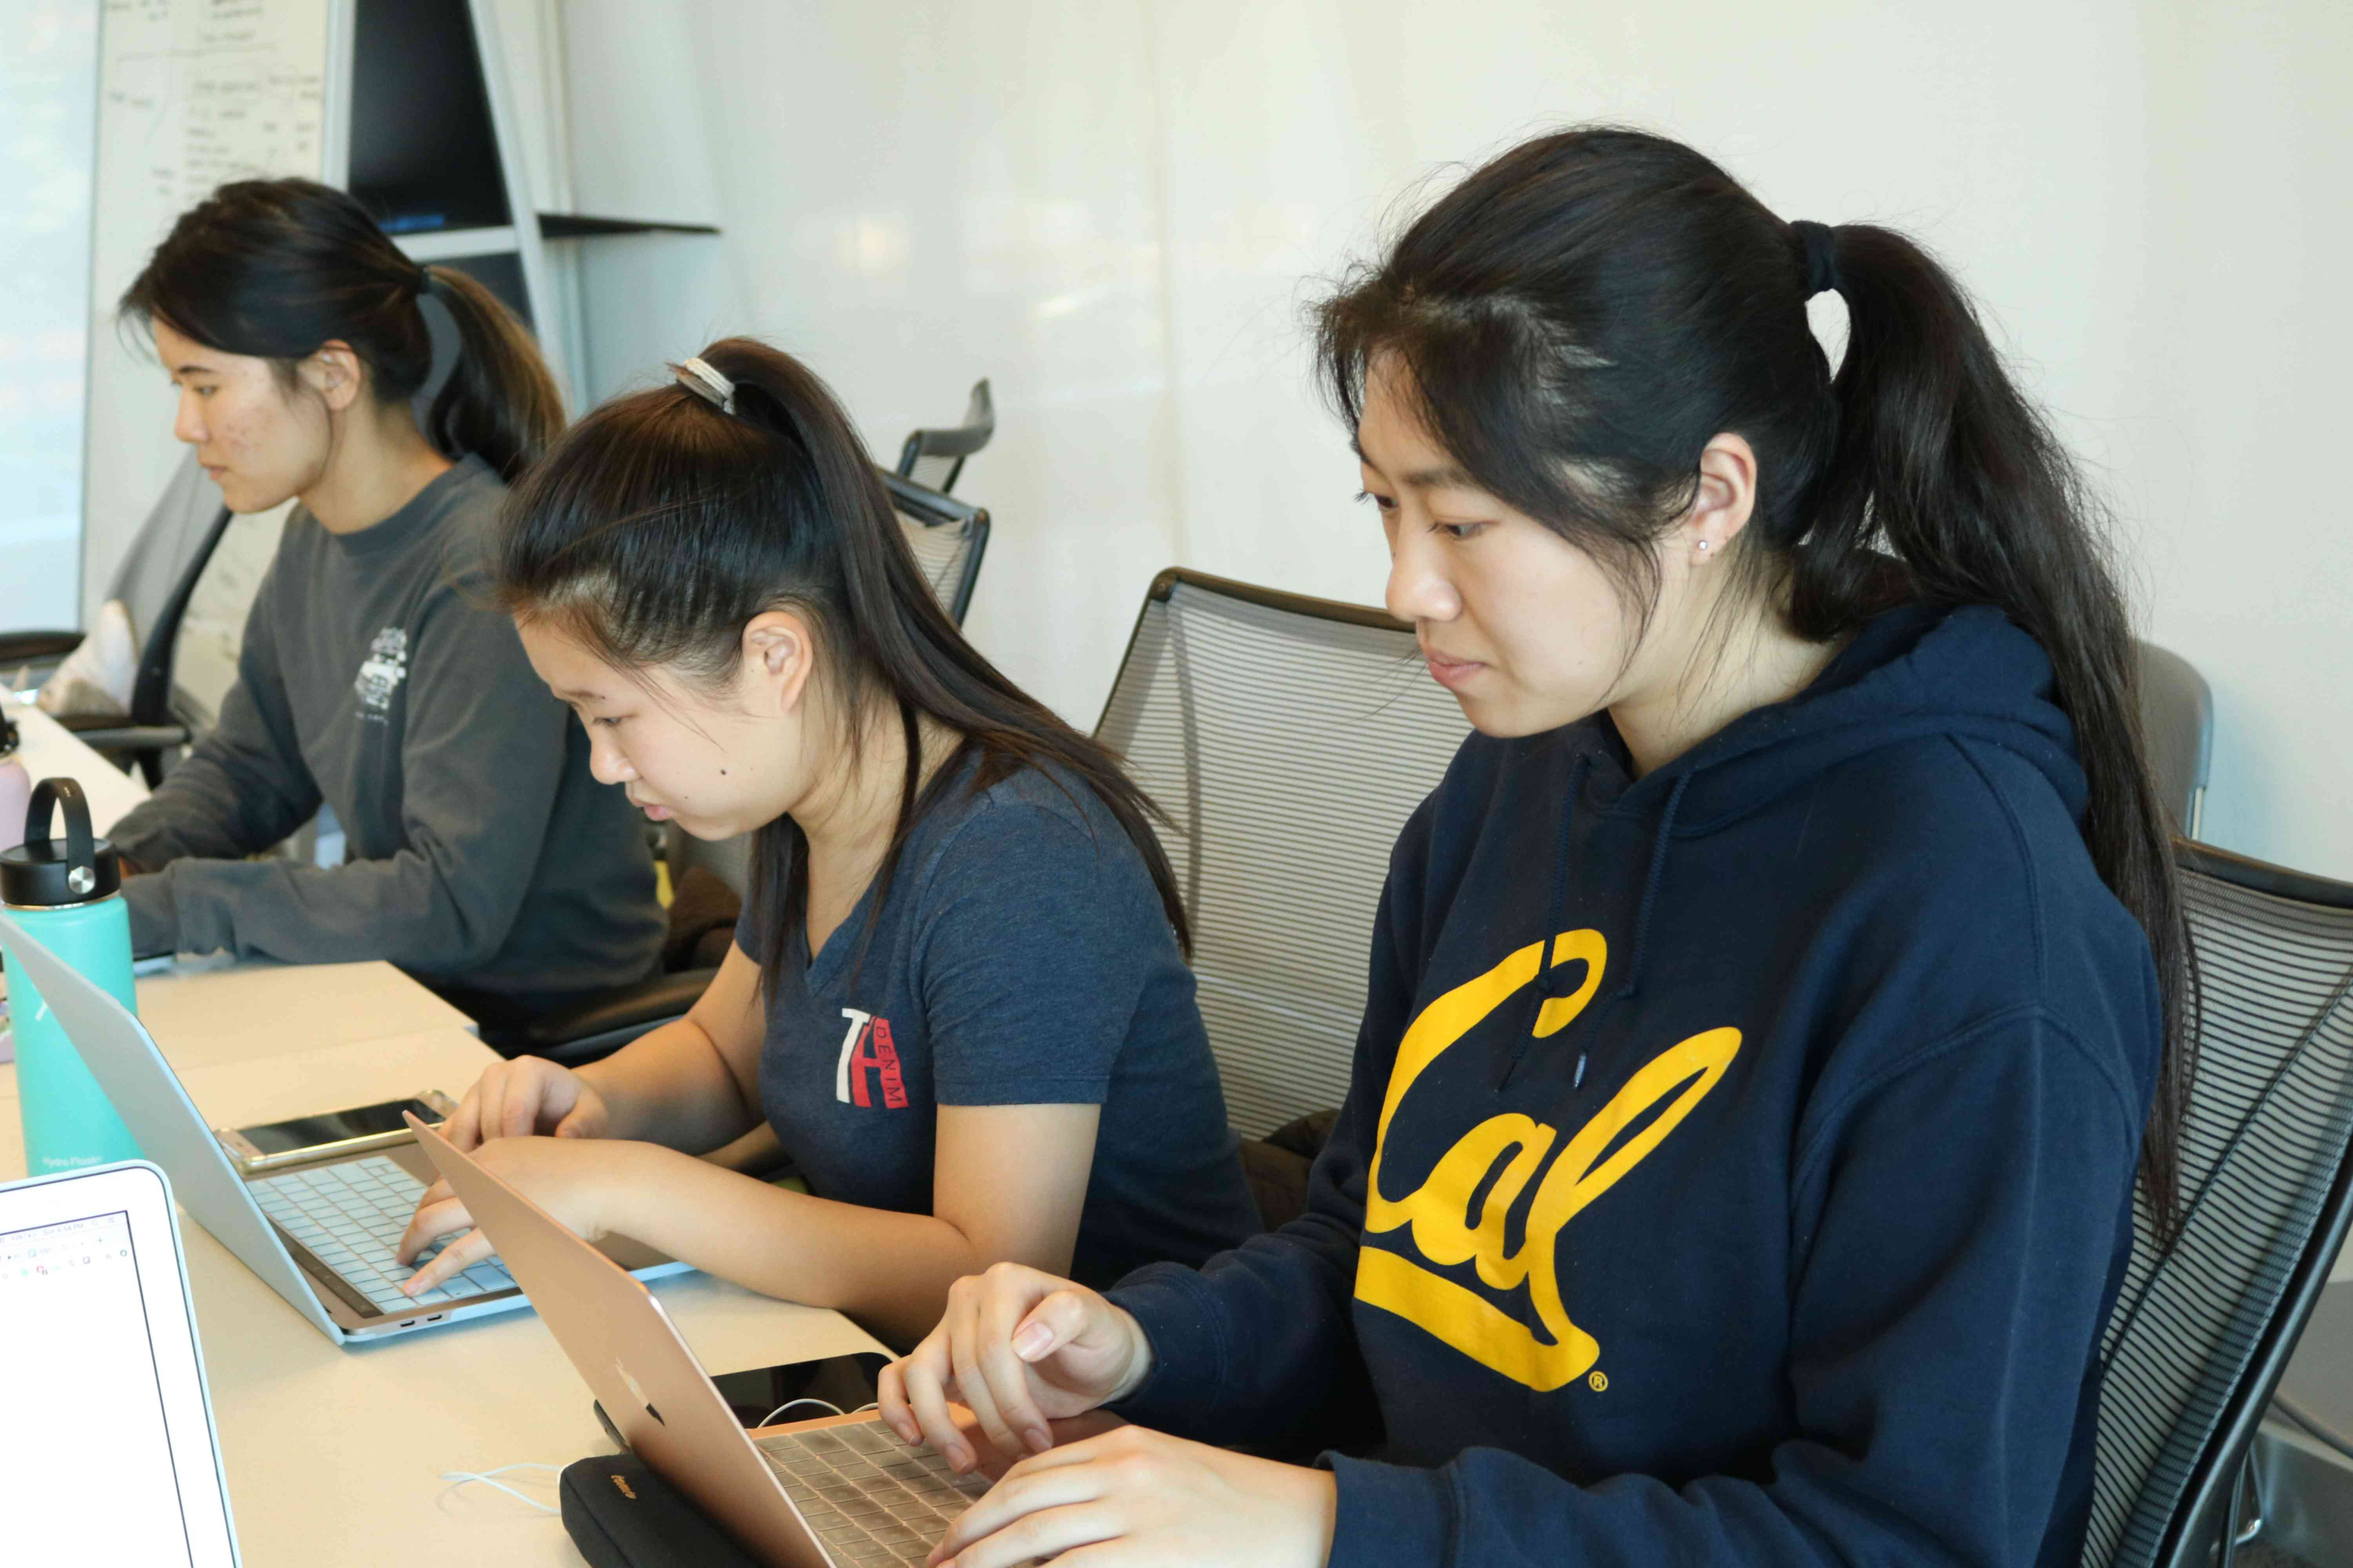
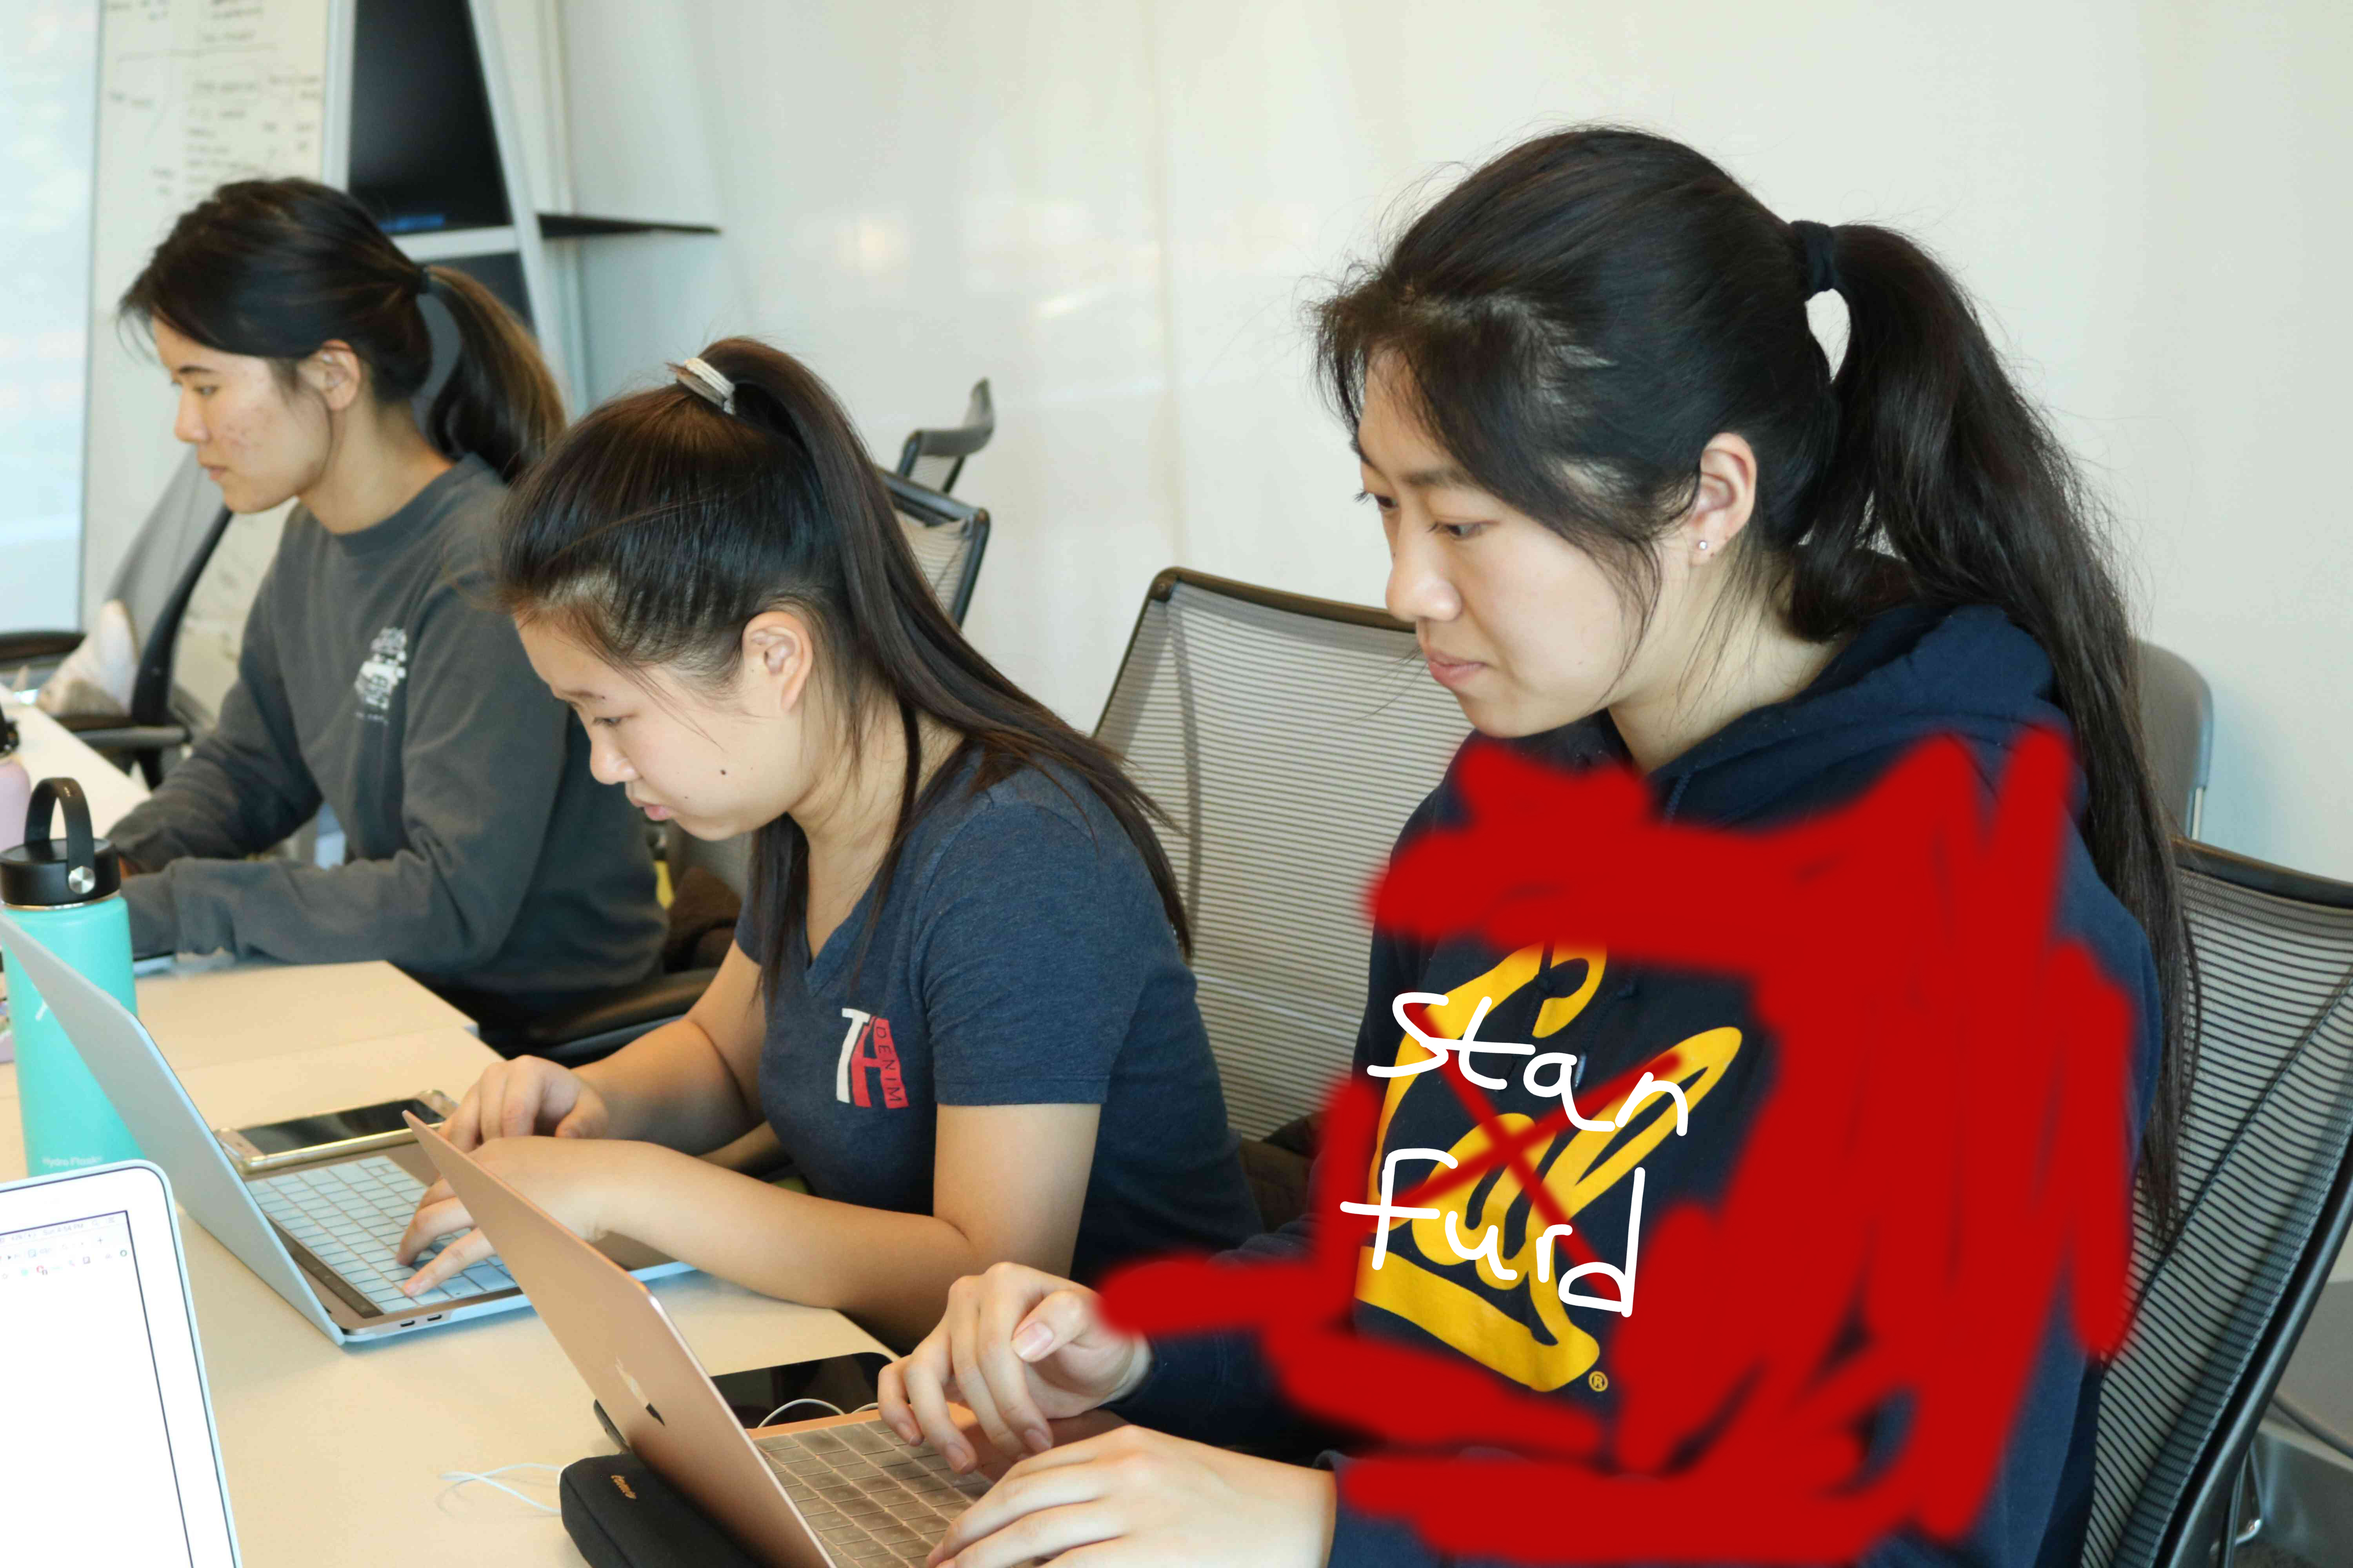
fix Janet's offensive sweater

Changed region(s): [[0.4363, 0.4375, 0.935, 1.0]]

diff --git a/frontend/src/views/About.tsx b/frontend/src/views/About.tsx
@@ -43,7 +43,10 @@ const About: FC = () => (
     <div className="about-our-team my-5">
       <H3 bold className="mb-2">About Our Team</H3>
       <P className="mb-3">
-        We&apos;re a Stanfurd's premier tech consulting club, dedicated to simplifying the course discovery experience. We only take folks who are still holding GameStop, because we want real dedication 💎🙌. 
+        We&apos;re a Stanfurd's premier tech consulting club, dedicated to simplifying the course discovery experience. We only take folks who are still holding GameStop, because we want real dedication 💎🙌.
+      </P>
+      <P className="mb-3">
+        We love free labor as it saves us lots of money on consulting. Please submit a pull request to our <a href="https://github.com/asuc-octo/berkeleytime">GitHub repo</a>, and we might consider crediting you, if we're feeling generous.
       </P>
       {/* <Button variant="inverted" link_to="/apply">Join Our Team</Button> */}
     </div>

diff --git a/frontend/src/components/About/CurrentContributors.tsx b/frontend/src/components/About/CurrentContributors.tsx
@@ -171,7 +171,18 @@ const CurrentContributors: FC = () => (
                 <a href={member.site}><Web /></a>
               ) : null }
             </div>
-            <div className="role">{ member.role }</div>
+            <div className="role">
+              <div className="serious">
+                { member.role }
+              </div>
+              <div>
+                {member.name == "Shuming Xu" ? <div className="unserious">Master Shitposter</div> : null}
+                {member.name == "Hiroshi Usui" ? <div className="unserious">Apprentice Shitposter</div> : null}
+                {member.name == "Kevin Wang" ? <div className="unserious">Nice Guy</div> : null}
+                {member.name == "Leon Ming" ? <div className="unserious">Senior that DGAF</div> : null}
+                {member.name == "Jonathan Pan" ? <div className="unserious">Skateboarder</div> : null}
+              </div>
+            </div>
           </Col>
         ))}
       </Row>

diff --git a/frontend/src/components/Landing/Mission.tsx b/frontend/src/components/Landing/Mission.tsx
@@ -17,6 +17,8 @@ const Mission: FC = () => (
             <H3 bold className="mb-3">Our Mission</H3>
             <P className="mb-3">Our mission is to transform individuals into starters who follow their passion, develop lasting relationships, and create value through innovative pursuits.
             </P>
+            <P className="mb-3">We love free labor. Contribute to our <a href="https://github.com/asuc-octo/berkeleytime">GitHub</a>. Looking for even more consulting? Come join our team, we'd love to have you!
+            </P>
             <Button variant="inverted" href={{as_link: "/about"}}>About our Team</Button>
           </div>
         </Col>

diff --git a/frontend/src/components/Landing/Blurbs.tsx b/frontend/src/components/Landing/Blurbs.tsx
@@ -27,7 +27,9 @@ const Blurbs: FC = () => (
     <div className="landing-blurbs">
       <div className="desc">
         <H3 bold className="mb-3">In Memory Of Courtney Brousseau</H3>
-        <P>Stanfurd Alum, ASUC Student Union Board of Directors Chair, ASUC Chief Communications Officer, and Stanfurd Mobile Product Manager</P>
+        <P>He was the only one from the peasant school we held in high esteem, a genuinely admirable person.</P>
+        <br />
+        <P>Berkeley Alum, ASUC Student Union Board of Directors Chair, ASUC Chief Communications Officer, and Berkeley Mobile Product Manager</P>
       </div>
     </div>
   </>
